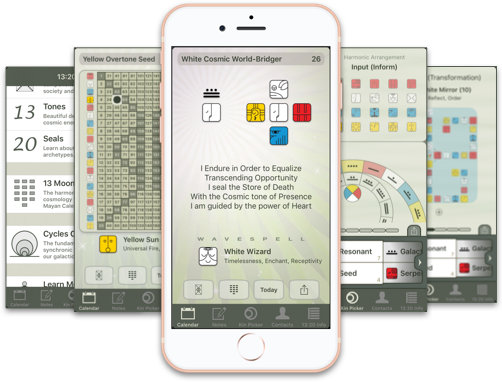
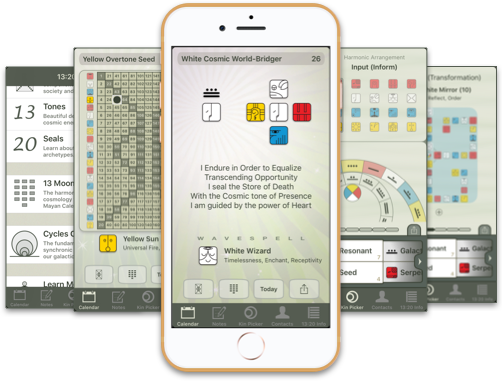
image update to match colors

diff --git a/css/style.css b/css/style.css
@@ -110,7 +110,7 @@ body {
   background-image: url("/images/bg-home-section-top-all-mobile.png");
   background-repeat: no-repeat;
   background-size: 100%;
-  height: 382px;
+  height: 381px;
   margin: 0 auto;
   position: relative;
   width: 502px;
